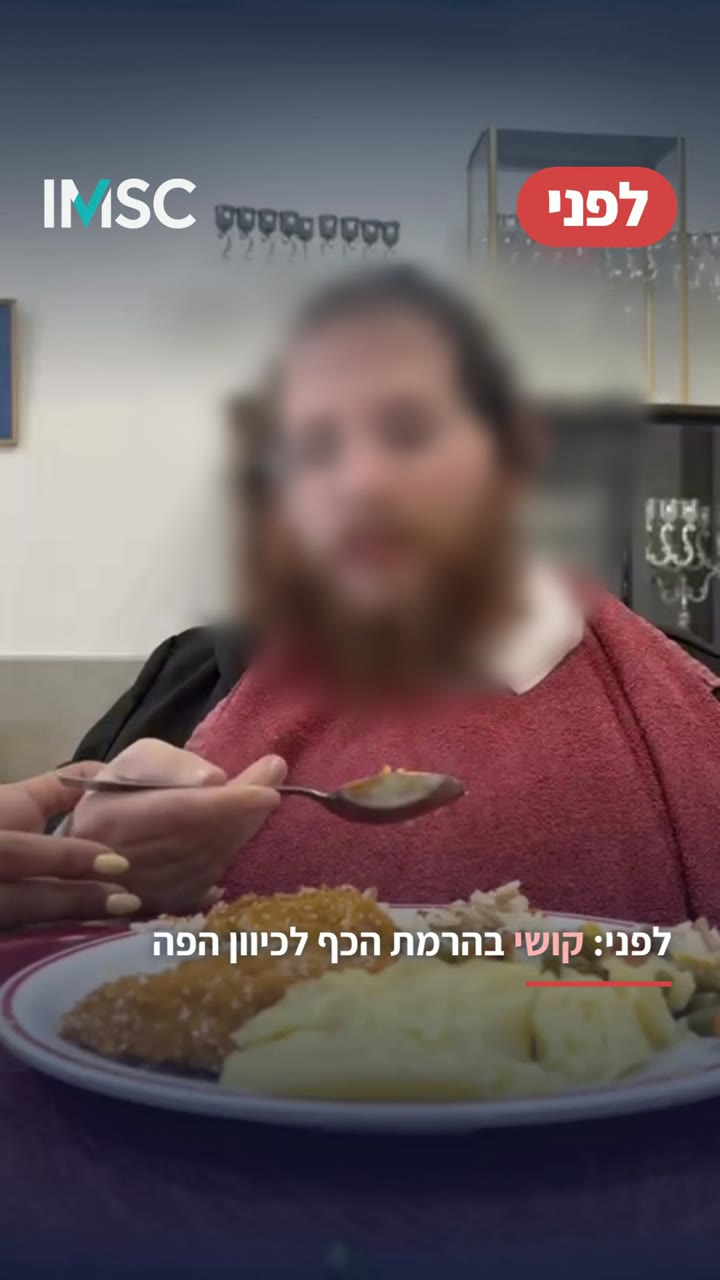
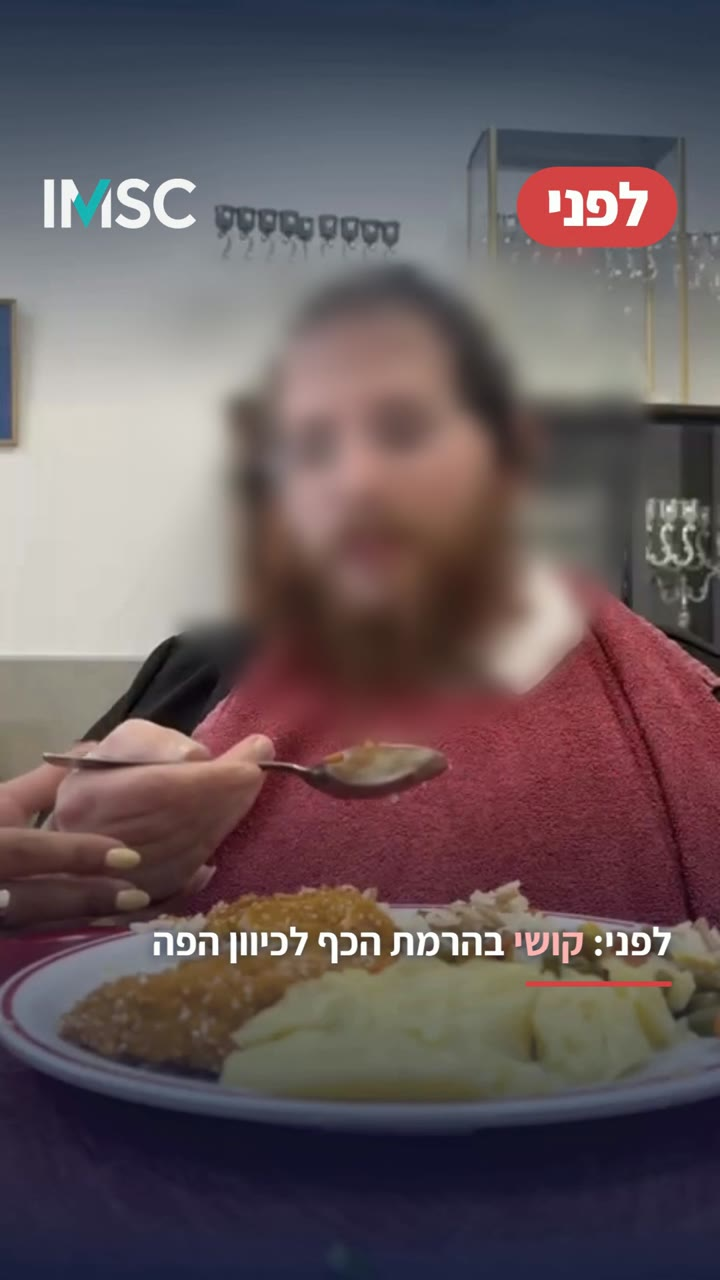
before-after-1: storyboard review round 3 (v3): close text, blur ramps, longer 24/25, new 22(1) scene
Claude-Session: https://claude.ai/code/session_01F4s6yZrDv1CBFW3cejaZFB

diff --git a/before-after-1/index.html b/before-after-1/index.html
@@ -77,7 +77,7 @@ button.primary:disabled{opacity:.55;cursor:default}
   </section>
 </div>
 <script>
-const C = {"project": "before-after-1", "doc": "reviews/before-after-1-storyboard-v2", "ls": "imsc-before-after-1-storyboard-v2", "brand": "IMSC · לפני ואחרי 1 · סטוריבורד v2", "h1": "הסטוריבורד לאישור: גרסה 2", "intro": "סבב 2. חמש ההערות שלכם מסבב 1 יושמו: הכיתובים בניסוח שלכם, וסצנה חדשה (03ב) שבה המטופל מתקשה להוביל את הכף לפה. כל סצנה שהשתנתה מסומנת ב\"שונה\" עם משפט על מה בדיוק השתנה. הפריימים הם מהגרסה הבנויה החדשה, אחרי טשטוש הפנים. תיבה ריקה = מאושר. כשהכול ריק, הסטוריבורד נעול ועוברים לביקורת הסרטון.", "facts": ["ריל 9:16", "39.5 שניות", "8 סצנות", "פנים מטושטשות"], "itemWord": "סצנה", "sendTitle": "הערות לסטוריבורד v2 של \"לפני ואחרי 1\":", "items": [{"k": "f01", "n": "01", "t": "פתיח: לאכול לבד", "sub": "0.0–3.0 שנ׳", "img": "img/f01.jpg", "quote": "יש דברים שלוקחים כמובנים מאליהם.\nלאכול לבד.", "body": "כרטיס נייבי. השורה העליונה עולה, \"לאכול לבד.\" נוחת בטורקיז ועומד 1.3 שנ׳ בלי תנועה. יוצא ב-blur crossfade אל הפוטג׳. ללא שינוי (אושר בסבב 1)."}, {"k": "f02", "n": "02", "t": "לפני 1: קושי באיסוף אוכל", "sub": "3.0–8.6 שנ׳ · WA0025", "img": "img/f02.jpg", "quote": "לפני: קושי באיסוף אוכל לתוך הכף", "body": "מלמעלה, היד של המטפלת אוספת אוכל, היד של המטופל מתחת. אין פנים. גלולה אדומה \"לפני\", לוגו, כיתוב עם קו אדום.", "ch": "הכיתוב הוחלף לניסוח שלכם: \"לפני: קושי באיסוף אוכל לתוך הכף\"."}, {"k": "f03", "n": "03", "t": "לפני 2: קושי בהרמת הכף", "sub": "8.6–13.6 שנ׳ · WA0026", "img": "img/f03.jpg", "quote": "לפני: קושי בהרמת הכף לכיוון הפה", "body": "המטפלת מגישה כף לפה. פנים מטושטשות. הכיתוב מתחלף (היוצא עולה, הנכנס מימין). יוצא ב-crossfade אל הסצנה החדשה.", "ch": "הכיתוב הוחלף ל\"לפני: קושי בהרמת הכף לכיוון הפה\" (כתבתם \"הקמת\", קראתי כ\"הרמת\"). המעבר הגדול (seam wipe) עבר לסצנה 03ב."}, {"k": "f03b", "n": "03ב", "t": "לפני 3: קושי בהובלת הכף לפה", "sub": "13.6–18.1 שנ׳ · WA0024 · חדש", "img": "img/f03b.jpg", "quote": "לפני: קושי בהובלת הכף לפה", "body": "המטופל מוביל כף לפה בעצמו, בקושי. פנים מטושטשות. הכיתוב נכנס בסקייל+בלור. יוצא ב-seam wipe: פס טורקיז חוצה מימין לשמאל וחושף את \"אחרי\".", "ch": "סצנה חדשה לפי ההערה שלכם (\"תוסיף עוד סרטון שבו רואים את המטופל מתקשה בהכנסת הכף לפה\"). נבחר הקליפ WA0024, 4.5 שנ׳ מתחילתו."}, {"k": "f04", "n": "04", "t": "אחרי 1: מצליח לחתוך לבד", "sub": "18.1–23.2 שנ׳ · WA0021", "img": "img/f04.jpg", "quote": "אחרי: מצליח לחתוך לבד", "body": "ידיים בלבד, מזלג מותאם, חיתוך בננה. אין פנים. גלולה טורקיז \"אחרי ✓\" נכנסת מימין, ה-✓ קופץ. גריידינג חם.", "ch": "הכיתוב הוחלף ל\"אחרי: מצליח לחתוך לבד\"."}, {"k": "f05", "n": "05", "t": "אחרי 2: מצליח להגיש אוכל לפה", "sub": "23.2–27.2 שנ׳ · WA0020", "img": "img/f05.jpg", "quote": "אחרי: מצליח להגיש אוכל מהצלחת אל הפה", "body": "מלמעלה, היד שלו מובילה את המזלג לבד. רק 4.3 השניות הראשונות של הקליפ (אחר כך נכנסות פנים). הכיתוב נשבר לשתי שורות; אם תרצו שורה אחת, אפשר לקצר ל\"אחרי: מצליח להגיש אוכל לפה\".", "ch": "הכיתוב הוחלף ל\"אחרי: מצליח להגיש אוכל מהצלחת אל הפה\"."}, {"k": "f06", "n": "06", "t": "אחרי 3: מצליח להגיש כוס לפה", "sub": "27.2–31.9 שנ׳ · WA0019", "img": "img/f06.jpg", "quote": "אחרי: מצליח להחזיק ולהגיש כוס לפה", "body": "שותה מכוס לבד. פנים מטושטשות. יוצא בדהייה לנייבי.", "ch": "הכיתוב הוחלף ל\"אחרי: מצליח להחזיק ולהגיש כוס לפה\"."}, {"k": "f07", "n": "07", "t": "קלוז: עצמאות מתחילה בביס אחד", "sub": "32.2–39.5 שנ׳", "img": "img/f07.jpg", "quote": "עצמאות מתחילה\nבביס אחד.\nריפוי בעיסוק, פיזיותרפיה והזרקות בוטולינום. כל המומחים לספסטיות תחת קורת גג אחת.\nלתיאום פגישת הערכה · 055-2690670 · imsc.co.il", "body": "כרטיס נייבי עם זוהר. לוגו, כותרת, שורת שירותים, כפתור וואטסאפ, טלפון, אתר. ללא שינוי (אושר בסבב 1); רק זז ב-4.5 שנ׳ בגלל הסצנה החדשה."}], "inbox": "https://script.google.com/macros/s/AKfycbzEj4lUky1em3ctwa-hol23Hfu5F5paCqut5pzeSTKYG4oaqZSQhPhb5EfFf9ZS16u11w/exec"};
+const C = {"project": "before-after-1", "doc": "reviews/before-after-1-storyboard-v3", "ls": "imsc-before-after-1-storyboard-v3", "brand": "IMSC · לפני ואחרי 1 · סטוריבורד v3", "h1": "הסטוריבורד לאישור: גרסה 3", "intro": "סבב 3. יושמו: ההערות על הקלוז ועל הטשטוש מסבב 1 (פוספסו בקריאה הראשונה, סליחה), ההערה מסבב 2, וארבע ההערות מהצ'אט: 24 ו-25 הוארכו, 22(1) נוסף כ\"לפני\". שתי ההערות על 23 ו-18 ממתינות לקבצים (פירוט בפריט האחרון). \"שונה\" מסמן מה השתנה מאז v2. תיבה ריקה = מאושר.", "facts": ["ריל 9:16", "50 שניות (בלי 23 ו-18)", "9 סצנות", "פנים מטושטשות"], "itemWord": "סצנה", "sendTitle": "הערות לסטוריבורד v3 של \"לפני ואחרי 1\":", "items": [{"k": "f01", "n": "01", "t": "פתיח: לאכול לבד", "sub": "0.0–3.0 שנ׳", "img": "img/f01.jpg", "quote": "יש דברים שלוקחים כמובנים מאליהם.\nלאכול לבד.", "body": "כרטיס נייבי. ללא שינוי."}, {"k": "f02", "n": "02", "t": "לפני 1: קושי באיסוף אוכל לתוך הכף", "sub": "3.0–10.5 שנ׳ · WA0025", "img": "img/f02.jpg", "quote": "לפני: קושי באיסוף אוכל לתוך הכף", "body": "מלמעלה, היד של המטפלת אוספת אוכל, היד של המטופל מתחת. אין פנים.", "ch": "השוט הוארך מ-5.6 ל-7.5 שנ׳ (כמעט כל הקליפ), לפי ההערה בצ'אט."}, {"k": "f02b", "n": "02ב", "t": "לפני 2: מתקשה לאסוף אוכל מהצלחת", "sub": "10.5–15.8 שנ׳ · WA0022(1) · חדש", "img": "img/f02b.jpg", "quote": "לפני: מתקשה לאסוף אוכל מהצלחת", "body": "המטופל מנסה לאסוף אוכל עם מזלג מותאם, הצלחת לא משתפת פעולה. פנים מטושטשות.", "ch": "סצנה חדשה לפי ההערה בצ'אט (\"להוסיף סרטון 22(1) לפני: מתקשה לאסוף אוכל מהצלחת\"). 5.3 שנ׳ מתוך השניות 1–6 של הקליפ."}, {"k": "f03", "n": "03", "t": "לפני 3: קושי בהרמת הכף", "sub": "15.8–20.8 שנ׳ · WA0026", "img": "img/f03.jpg", "quote": "לפני: קושי בהרמת הכף לכיוון הפה", "body": "המטפלת מגישה כף לפה. פנים מטושטשות. ללא שינוי (רק זז בזמן)."}, {"k": "f03b", "n": "03ב", "t": "לפני 4: קושי בהובלת הכף לפה", "sub": "20.8–28.8 שנ׳ · WA0024", "img": "img/f03b.jpg", "quote": "לפני: קושי בהובלת הכף לפה", "body": "המטופל מוביל כף לפה בעצמו, בקושי. פנים מטושטשות. יוצא ב-seam wipe אל \"אחרי\".", "ch": "השוט הוארך מ-4.5 ל-8 שנ׳ (כמעט כל הקליפ), לפי ההערה בצ'אט."}, {"k": "f04", "n": "04", "t": "אחרי 1: מצליח לחתוך לבד", "sub": "28.8–33.9 שנ׳ · WA0021", "img": "img/f04.jpg", "quote": "אחרי: מצליח לחתוך לבד", "body": "ידיים בלבד, מזלג מותאם. אין פנים. ללא שינוי."}, {"k": "f05", "n": "05", "t": "אחרי 2: מצליח להגיש אוכל מהצלחת אל הפה", "sub": "33.9–37.9 שנ׳ · WA0020", "img": "img/f05.jpg", "quote": "אחרי: מצליח להגיש אוכל מהצלחת אל הפה", "body": "מלמעלה, היד שלו מובילה את המזלג לבד. ללא שינוי. (כאן ייכנס השוט מ-23, \"אחרי: הובלת אוכל אל הפה\", כשהקובץ יגיע.)"}, {"k": "f06", "n": "06", "t": "אחרי 3: מצליח להחזיק ולהגיש כוס לפה", "sub": "37.9–42.6 שנ׳ · WA0019", "img": "img/f06.jpg", "quote": "אחרי: מצליח להחזיק ולהגיש כוס לפה", "body": "שותה מכוס לבד. פנים מטושטשות. ללא שינוי. (אחריו ייכנס הבונוס מ-18, \"ובונוס: מניח תפילין לבד\", כשהקובץ יגיע.)"}, {"k": "f07", "n": "07", "t": "קלוז: ספסטיות היא לא גזירת גורל", "sub": "42.5–50.0 שנ׳", "img": "img/f07.jpg", "quote": "ספסטיות היא לא גזירת גורל.\nיש מה לעשות.\nכל המומחים לטיפול בספסטיות תחת קורת גג אחת\nלתיאום פגישת הערכה · 055-2690670 · imsc.co.il", "body": "לוגו, כותרת, שורת משנה, כפתור וואטסאפ, טלפון, אתר. לגבי כפתור לחיץ: בקובץ וידאו לא; באינסטגרם הקישור נכנס בכפתור ה-CTA של הפוסט או המודעה מתחת לסרטון, והכפתור בסרטון מכוון אליו.", "ch": "הכותרת הוחלפה ל\"ספסטיות היא לא גזירת גורל. יש מה לעשות.\" ושורת המשנה ל\"כל המומחים לטיפול בספסטיות תחת קורת גג אחת\", לפי ההערה מסבב 1 ומסבב 2."}, {"k": "g02", "n": "08", "t": "לכל הסרטון: הטשטוש", "sub": "חלונות 10.2–29.7 ו-37.6–43.3 שנ׳", "body": "הטשטוש רץ רק בחלונות שבהם יש פנים (סצנות 02ב, 03, 03ב, 06). בתוך החלון: נכנס ויוצא בהדרגה (5 פריימים) במקום לקפוץ, עוקב אחרי הפנים עם החלקה (בלי ריצוד), ונשאר שנייה אחרי שהגלאי מאבד את הפנים.", "ch": "לפי ההערה מסבב 1: טשטוש רק כשנדרש, כניסה ויציאה הדרגתיות, תזוזה חלקה."}, {"k": "g03", "n": "09", "t": "ממתין לקבצים: 23 ו-18", "sub": "מהצ'אט", "body": "• VID-20260822-WA0023 (9.6MB): \"אחרי: הובלת אוכל אל הפה\". ההורדה מדרייב נכשלת (חמישה ניסיונות, החיבור נופל על הגודל).\n• VID-20260822-WA0018 (38MB): \"ובונוס: מניח תפילין לבד\". מעל מגבלת ההורדה (10MB).\nפתרון: לדחוס את שניהם (למשל לשלוח לעצמכם בוואטסאפ ולשמור, או \"שיתוף בגודל קטן\" בטלפון) ולהעלות לאותה תיקייה בדרייב, או להעלות ישירות בצ'אט. ברגע שהם מגיעים, שתי הסצנות נכנסות באותו סבב.", "rev": ""}], "inbox": "https://script.google.com/macros/s/AKfycbzEj4lUky1em3ctwa-hol23Hfu5F5paCqut5pzeSTKYG4oaqZSQhPhb5EfFf9ZS16u11w/exec"};
 const $ = id => document.getElementById(id);
 const ORDER = C.items.map(i => i.k), LABEL = {}, areas = {};
 C.items.forEach(i => { LABEL[i.k] = C.itemWord + ' ' + i.n + ' · ' + i.t; });
